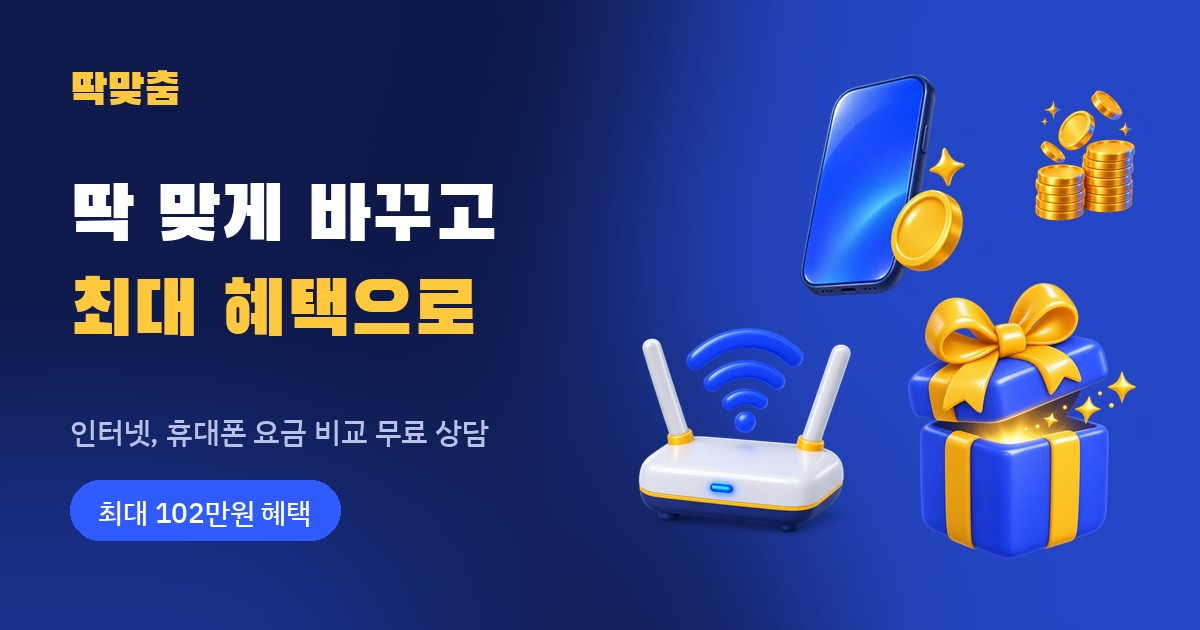
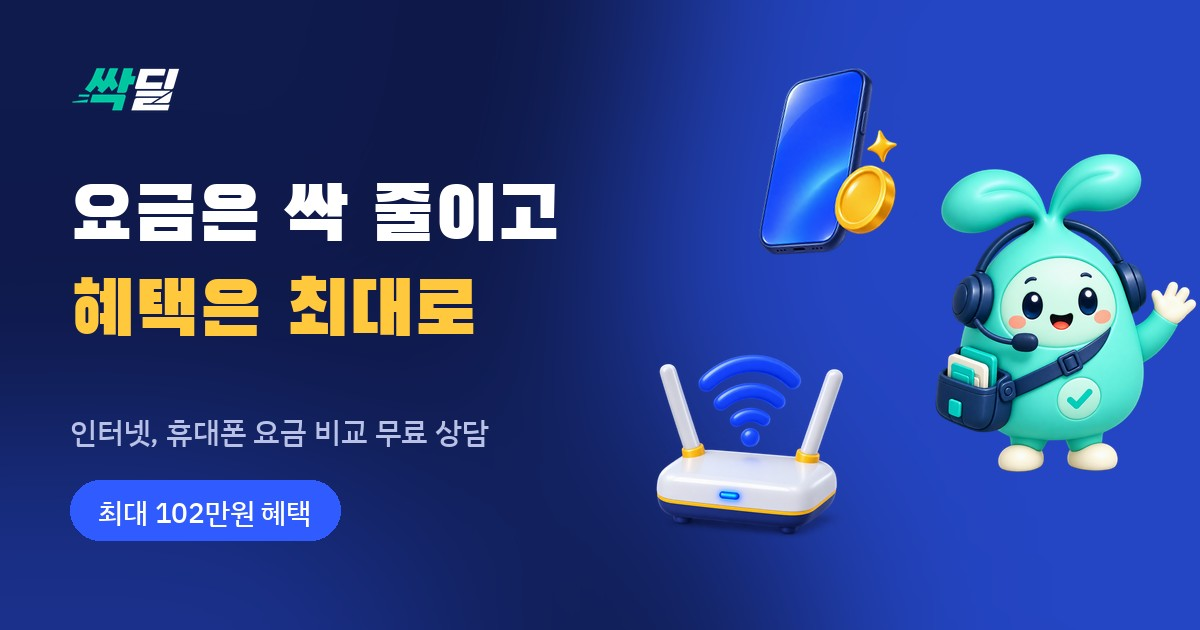
싹딜로 브랜드 변경: 로고, 캐릭터, 파비콘, 공유 이미지

diff --git a/src/components/site/landing.tsx b/src/components/site/landing.tsx
@@ -1,4 +1,4 @@
-import { LogoMark } from "@/components/brand/logo";
+import { BrandLogo } from "@/components/brand/logo";
 import { SITE } from "@/lib/site-config";
 
 import { LeadForm } from "./lead-form";
@@ -37,20 +37,19 @@ export function Hero() {
       <p className="hero__strip">합리적인 요금, 끝까지 챙기는 혜택</p>
       <div className="hero__head">
         <a aria-label={`${SITE.name} 처음으로`} className="brand" href="/">
-          <LogoMark size={26} />
-          <span>{SITE.name}</span>
+          <BrandLogo height={30} />
         </a>
-        <Art className="hero__mascot float" eager size={84} src={ART.mascot} />
+        <Art className="hero__mascot float" eager size={92} src={ART.ssakWave} />
       </div>
       <p className="hero__kicker">인터넷과 휴대폰을 한 번에</p>
       <h1 className="hero__title">
-        <span className="hero__line">딱 맞게 바꾸고</span>
-        <span className="hero__line hero__line--gold">최대 혜택으로</span>
+        <span className="hero__line">요금은 싹 줄이고</span>
+        <span className="hero__line hero__line--gold">혜택은 최대로</span>
       </h1>
       <p className="hero__sub">
         정확한 요금 설계부터 보이지 않던 혜택까지
         <br />
-        딱맞춤이 한 번에, 끝까지 챙겨드려요.
+        싹딜이 한 번에, 끝까지 챙겨드려요.
       </p>
       <ul className="hero__cards">
         {HERO_CARDS.map((c) => (
@@ -77,11 +76,11 @@ export function Trust() {
       <h2 className="sec__title">
         숫자로 증명된 선택
         <br />
-        <span className="txt-gold">딱맞춤</span>
+        <span className="txt-gold">싹딜</span>
       </h2>
       <div className="trust__badge">
         <span aria-hidden="true" className="trust__laurel trust__laurel--l" />
-        <Art className="trust__mascot float" size={150} src={ART.mascot} />
+        <Art className="trust__mascot float" size={170} src={ART.ssakHappy} />
         <span aria-hidden="true" className="trust__laurel trust__laurel--r" />
       </div>
       <div className="stat-stack">
@@ -117,12 +116,12 @@ export function Compare() {
       <Num n="01" />
       <h2 className="sec__title" id="compare-title">혜택 비교</h2>
       <table className="cmp">
-        <caption className="sr-only">타업체와 딱맞춤 혜택 금액 비교 (예시)</caption>
+        <caption className="sr-only">타업체와 싹딜 혜택 금액 비교 (예시)</caption>
         <thead>
           <tr>
             <th className="cmp__h cmp__h--other" scope="col">타업체</th>
             <td className="cmp__h cmp__h--mid" />
-            <th className="cmp__h cmp__h--ours" scope="col">딱맞춤</th>
+            <th className="cmp__h cmp__h--ours" scope="col">싹딜</th>
           </tr>
         </thead>
         <tbody>
@@ -155,7 +154,7 @@ export function Customers() {
     <section aria-labelledby="cust-title" className="sec sec--dark customers">
       <Num n="02" />
       <h2 className="sec__title" id="cust-title">누적 상담 고객</h2>
-      <div aria-label="타업체 8,000명, 딱맞춤 33,000명 (예시)" className="bars" role="img">
+      <div aria-label="타업체 8,000명, 싹딜 33,000명 (예시)" className="bars" role="img">
         <div className="bars__col">
           <div className="bars__bar bars__bar--other">
             <span>8,000명</span>
@@ -169,7 +168,7 @@ export function Customers() {
           <div className="bars__bar bars__bar--ours">
             <span>33,000명+</span>
           </div>
-          <span className="bars__name">딱맞춤</span>
+          <span className="bars__name">싹딜</span>
         </div>
       </div>
     </section>
@@ -180,11 +179,11 @@ export function Customers() {
 export function Consult() {
   return (
     <section aria-labelledby="consult-title" className="sec sec--light consult" id="consult">
-      <Art className="consult__mascot float" size={96} src={ART.mascot} />
+      <Art className="consult__mascot float" size={120} src={ART.ssakCheck} />
       <h2 className="sec__title sec__title--ink" id="consult-title">
         놓치고 있던 <span className="txt-blue">혜택</span>까지
         <br />
-        딱맞춤이 찾아드려요!
+        싹딜이 찾아드려요!
       </h2>
       <LeadForm />
     </section>
@@ -217,7 +216,7 @@ export function Worry() {
         <br />
         조건은 비슷해 보여도 결과는 달라요.
         <br />
-        <strong>딱맞춤이 확실한 기준으로 답을 드릴게요.</strong>
+        <strong>싹딜이 확실한 기준으로 답을 드릴게요.</strong>
       </p>
     </section>
   );
@@ -238,7 +237,7 @@ const REASONS = [
     n: "02",
     title: "맞춤형 추천 시스템",
     body: "고객님의 시간을 낭비하지 않도록 꼭 맞는 상품만 정확하게 안내해요.",
-    art: ART.magnifier,
+    art: ART.ssakLook,
     tone: "sky",
   },
   {
@@ -263,7 +262,7 @@ export function Reasons() {
   return (
     <section aria-labelledby="why-title" className="sec sec--mist reasons">
       <h2 className="sec__title sec__title--ink" id="why-title">
-        딱맞춤을 선택하는 이유
+        싹딜을 선택하는 이유
       </h2>
       <ul className="reasons__list">
         {REASONS.map((r) => (
@@ -299,7 +298,7 @@ export function Moments() {
       </div>
       <p className="moments__lead">가장 먼저 떠오르는 곳.</p>
       <h2 className="sec__title" id="moments-title">
-        그것이 딱맞춤이
+        그것이 싹딜이
         <br />
         지키는 <span className="txt-gold">기준</span>입니다.
       </h2>
@@ -319,7 +318,7 @@ export function Steps() {
   return (
     <section aria-labelledby="steps-title" className="sec sec--light steps">
       <h2 className="sec__title sec__title--ink" id="steps-title">
-        딱맞춤만의
+        싹딜만의
         <br />
         초간단 가입 절차
       </h2>
@@ -361,7 +360,7 @@ export function Reviews() {
         <h2 className="sec__title sec__title--ink" id="reviews-title">
           숫자가 증명하는
           <br />
-          딱맞춤의 기준
+          싹딜의 기준
         </h2>
         <p className="sec__lead sec__lead--ink">지금 이 순간에도 후기는 계속 쌓이고 있어요.</p>
         <ul className="reviews__list">
@@ -389,10 +388,11 @@ export function FinalCta() {
   return (
     <section aria-labelledby="final-title" className="sec sec--dark final">
       <div className="final__card">
+        <Art className="final__mascot float" size={110} src={ART.ssakSearch} />
         <h2 className="sec__title" id="final-title">
           사은품의 기준은
           <br />
-          딱맞춤에서
+          싹딜에서
         </h2>
         <a className="final__phone" href={`tel:${SITE.phoneTel}`}>
           <svg aria-hidden="true" viewBox="0 0 24 24">
@@ -403,7 +403,7 @@ export function FinalCta() {
         <p className="final__text">
           어디서 가입할지 고민된다면 혜택부터 비교해 보세요.
           <br />
-          최대 혜택의 정점은 딱맞춤이에요.
+          최대 혜택의 정점은 싹딜이에요.
         </p>
       </div>
     </section>
@@ -414,10 +414,9 @@ export function Footer() {
   return (
     <footer className="foot">
       <div className="foot__brand">
-        <LogoMark size={30} />
-        <span>{SITE.name}</span>
+        <BrandLogo height={30} />
       </div>
-      <p>회사명: 딱맞춤 (오픈 전 입력) | 대표자: 오픈 전 입력</p>
+      <p>회사명: 싹딜 (오픈 전 입력) | 대표자: 오픈 전 입력</p>
       <p>사업자번호: 오픈 전 입력 | 주소: 오픈 전 입력</p>
       <p>
         대표번호 {SITE.phone} | {SITE.hours}

diff --git a/src/styles.css b/src/styles.css
@@ -2,7 +2,7 @@
 @source "../src";
 
 /* =====================================================================
- * 딱맞춤 site layer: mobile-first single column (max 480px).
+ * 싹딜 site layer: mobile-first single column (max 480px).
  * Unlayered on purpose so it wins over the template's layered base styles.
  * ===================================================================== */
 :root {
@@ -240,9 +240,12 @@ body.site-body a {
   border-radius: 6px;
 }
 .hero__mascot {
-  width: 84px;
-  height: 84px;
-  margin-right: -6px;
+  width: 92px;
+  height: 92px;
+  margin-right: -8px;
+}
+.brand-logo {
+  display: block;
 }
 .hero__kicker {
   margin: 10px 0 0;
@@ -362,8 +365,8 @@ body.site-body .btn-glow {
   margin: 24px auto 0;
 }
 .trust__mascot {
-  width: 150px;
-  height: 150px;
+  width: 170px;
+  height: 170px;
   filter: drop-shadow(0 16px 30px rgba(47, 91, 255, 0.45));
 }
 .trust__laurel {
@@ -594,8 +597,8 @@ body.site-body .btn-glow {
   padding-top: 56px;
 }
 .consult__mascot {
-  width: 96px;
-  height: 96px;
+  width: 120px;
+  height: 120px;
   margin: 0 auto;
 }
 .lf {
@@ -1178,6 +1181,15 @@ body.site-body .btn-glow {
   border-radius: 26px;
   box-shadow: 0 20px 40px rgba(5, 10, 40, 0.45);
 }
+.final__mascot {
+  width: 110px;
+  height: 110px;
+  margin: -70px auto 6px;
+  filter: drop-shadow(0 12px 20px rgba(5, 10, 40, 0.45));
+}
+.final {
+  padding-top: 96px;
+}
 .final__phone {
   display: inline-flex;
   align-items: center;
@@ -1189,7 +1201,16 @@ body.site-body .btn-glow {
   line-height: 1;
   text-decoration: none;
 }
-body.site-body .final__phone {
+body.site-body .final__mascot {
+  width: 110px;
+  height: 110px;
+  margin: -70px auto 6px;
+  filter: drop-shadow(0 12px 20px rgba(5, 10, 40, 0.45));
+}
+.final {
+  padding-top: 96px;
+}
+.final__phone {
   color: var(--sun);
 }
 .final__phone svg {

diff --git a/src/components/brand/logo.tsx b/src/components/brand/logo.tsx
@@ -1,13 +1,17 @@
-/** 딱맞춤 monogram: a price tag with a check cut out of it. */
-export function LogoMark({ size = 30 }: { size?: number }) {
+import { SITE } from "@/lib/site-config";
+
+/** 싹딜 wordmark. `tone="light"` is the white-lettered version for dark backgrounds. */
+export function BrandLogo({ height = 28, tone = "light" }: { height?: number; tone?: "light" | "color" }) {
+  const src = tone === "light" ? "/assets/brand/logo-white.webp" : "/assets/brand/logo-color.webp";
   return (
-    <svg aria-hidden="true" className="logo-mark" height={size} viewBox="0 0 32 32" width={size}>
-      <path
-        className="logo-mark__body"
-        d="M6 7h14.2c.8 0 1.5.3 2.1.9l6.4 6.4a2.4 2.4 0 0 1 0 3.4l-6.4 6.4c-.6.6-1.3.9-2.1.9H6a3 3 0 0 1-3-3V10a3 3 0 0 1 3-3z"
-      />
-      <circle className="logo-mark__cut" cx="23" cy="16" r="1.9" />
-      <path className="logo-mark__check" d="M8 16.4l3.1 3.1 6-6.6" />
-    </svg>
+    <img
+      alt={SITE.name}
+      className="brand-logo"
+      decoding="async"
+      height={height}
+      src={src}
+      style={{ height, width: "auto" }}
+      width={Math.round(height * 1.98)}
+    />
   );
 }

diff --git a/src/routes/admin.tsx b/src/routes/admin.tsx
@@ -1,7 +1,7 @@
 import { createFileRoute } from "@tanstack/react-router";
 import { useState, type FormEvent } from "react";
 
-import { LogoMark } from "@/components/brand/logo";
+import { BrandLogo } from "@/components/brand/logo";
 import { listLeads, type LeadRow } from "@/lib/api/leads.functions";
 
 export const Route = createFileRoute("/admin")({
@@ -53,8 +53,7 @@ function AdminPage() {
     <main className="admin">
       <div className="admin__inner">
         <a className="site-header__brand" href="/">
-          <LogoMark />
-          <span className="site-header__word">딱맞춤</span>
+          <BrandLogo height={30} />
         </a>
         <h1 className="admin__title">상담 신청 관리</h1>
         <form className="admin__form" onSubmit={load}>

diff --git a/src/components/site/shared.ts b/src/components/site/shared.ts
@@ -9,7 +9,11 @@ export const ART = {
   calendar: "/assets/3d/calendar.webp",
   clipboard: "/assets/3d/clipboard.webp",
   trophy: "/assets/3d/trophy.webp",
-  mascot: "/assets/3d/mascot.webp",
+  ssakSearch: "/assets/brand/ssak-00.webp",
+  ssakCheck: "/assets/brand/ssak-01.webp",
+  ssakWave: "/assets/brand/ssak-02.webp",
+  ssakHappy: "/assets/brand/ssak-03.webp",
+  ssakLook: "/assets/brand/ssak-04.webp",
   coins: "/assets/3d/coins.webp",
   chat: "/assets/3d/chat.webp",
 } as const;

diff --git a/src/lib/site-config.ts b/src/lib/site-config.ts
@@ -1,9 +1,9 @@
 // 사이트 공통 정보. 실제 운영 전에 대표번호와 운영시간을 실제 값으로 바꿔 주세요.
 export const SITE = {
-  name: "딱맞춤",
+  name: "싹딜",
   phone: "1588-0000",
   phoneTel: "15880000",
   hours: "평일 오전 9시부터 오후 7시까지",
   /** Public origin, used to make the share image URL absolute. No trailing slash. */
-  url: "https://ddakmatchum.workers.dev",
+  url: "https://ssakdeal.workers.dev",
 } as const;

diff --git a/src/components/site/lead-form.tsx b/src/components/site/lead-form.tsx
@@ -243,7 +243,7 @@ export function LeadForm() {
       ) : null}
 
       <button aria-busy={submitting} className="lf-submit" disabled={submitting} type="submit">
-        {submitting ? "보내는 중" : "딱맞춤 혜택 상담 신청하기"}
+        {submitting ? "보내는 중" : "싹딜 혜택 상담 신청하기"}
         {submitting ? null : <span aria-hidden="true" className="lf-submit__chev" />}
       </button>
     </form>

diff --git a/design-brief.md b/design-brief.md
@@ -1,4 +1,4 @@
-# 딱맞춤 design brief
+# 싹딜 design brief (v1 concept, superseded by the v2 mobile layout)
 
 - Design read: 인터넷, 휴대폰, 정수기 요금이 아까운 30~50대 가구. 믿을 수 있는 계산원 같은 차분한 확신, 그러나 할인 전단의 즐거움은 유지.
 - Concept spine: "가격표". 노란 가격표가 브랜드 마크이자 핵심 CTA 형태이고, 페이지는 진열대를 따라 걷듯 세 상품을 차례로 지나 상담대에 도착한다.
